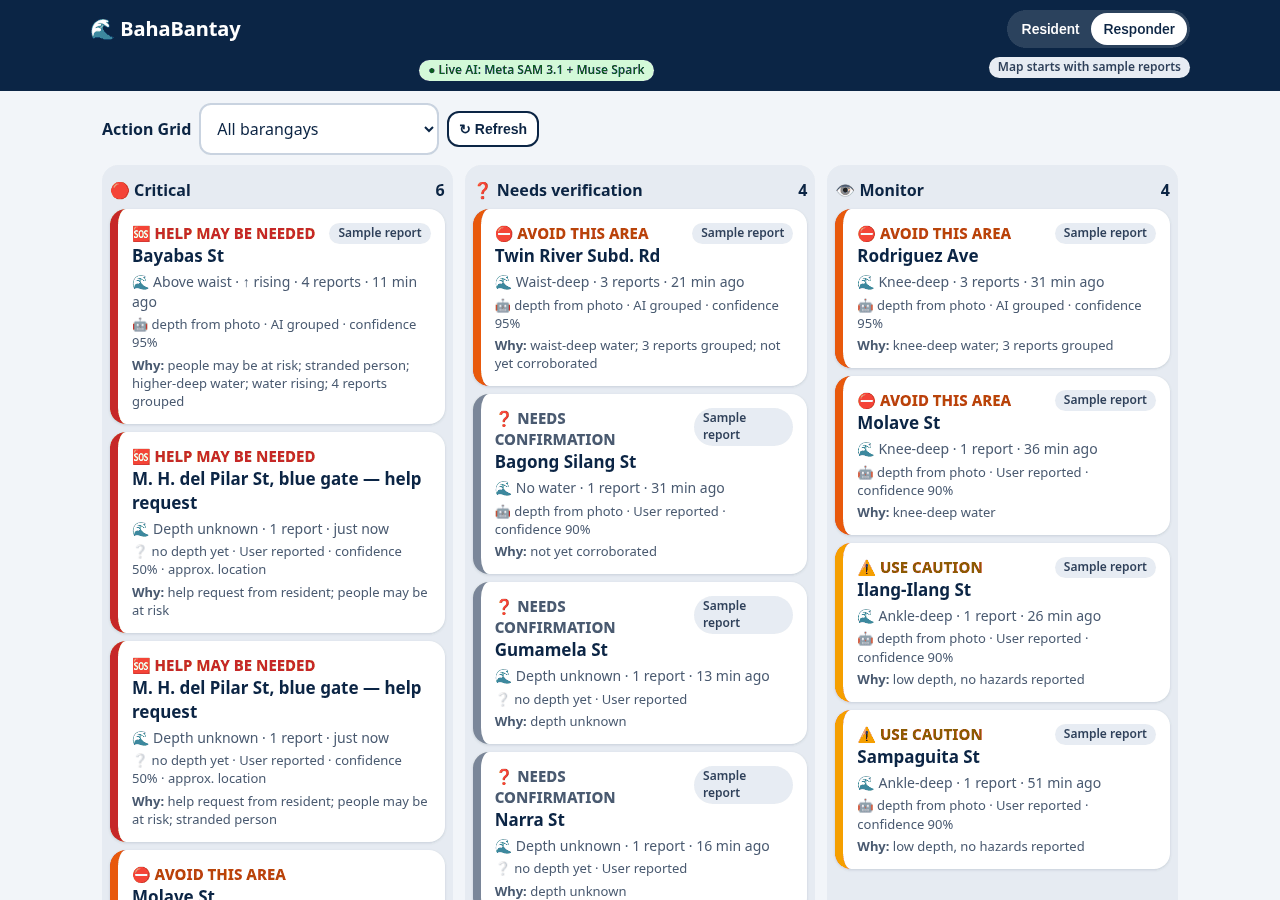
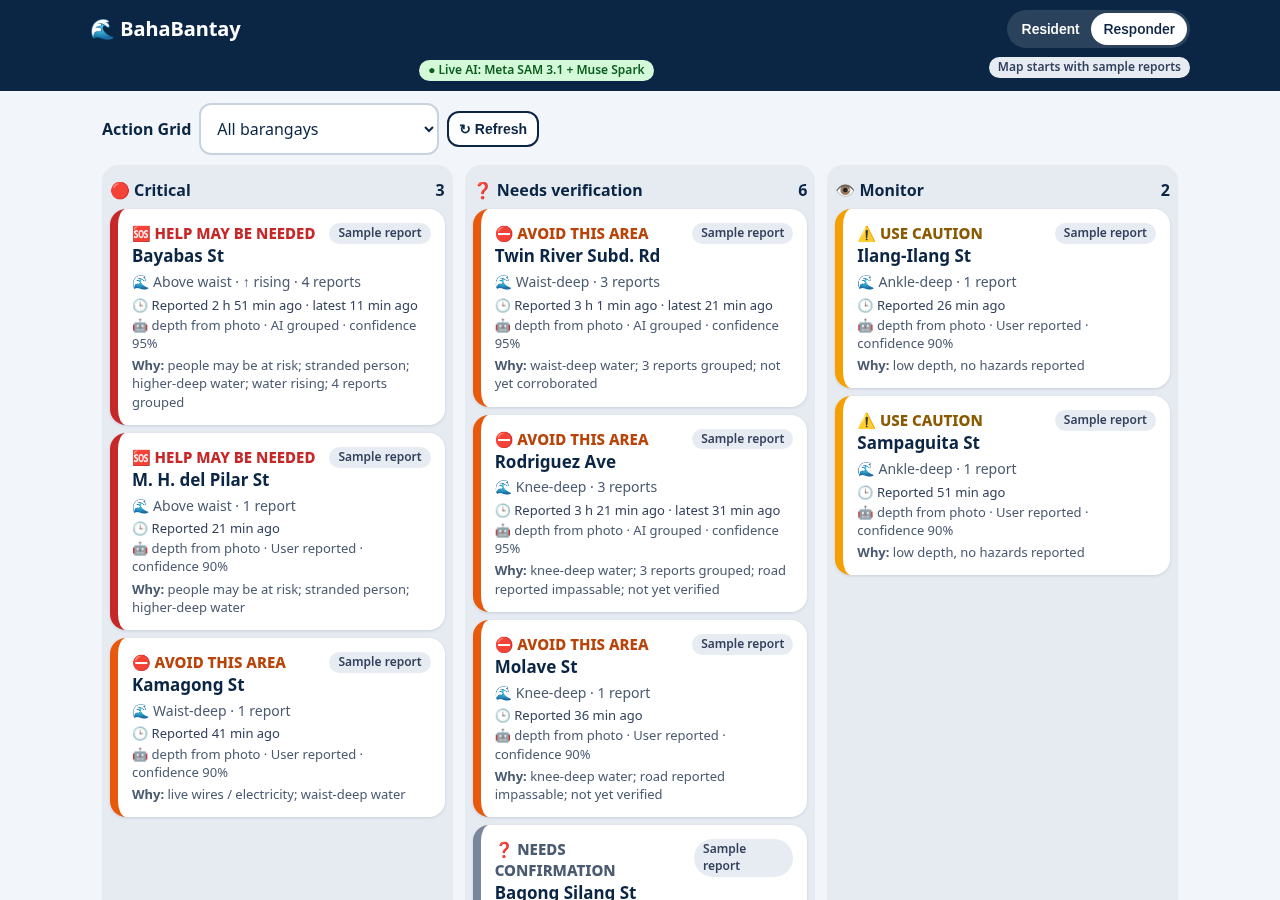
README and screenshots for current build: nationwide search, 250 m squares, new report fields, hotlines

diff --git a/README.md b/README.md
@@ -5,28 +5,61 @@ Built for the Meta Global AI Developer Hackathon (Oct 26 – Nov 4, 2026), using
 
 Live demo: https://bahabantay-466317436519.asia-southeast1.run.app (append `#responder` for the responder view)
 
-> The map starts with 18 **sample reports** (synthetic, Marikina area, placeholder images) so there is something to look at.
-> Sample reports are not run through the models. Every photo you submit in the app *is* analyzed live by SAM 3.1 and
-> Muse Spark; the header shows which provider is answering and says so if the offline fallback was used.
+> The demo starts with **sample reports** (synthetic, Marikina area, placeholder images), each labeled *Sample report*,
+> so there is something to look at. Sample reports are not run through the models. Every photo you submit in the app *is*
+> analyzed live by SAM 3.1 and Muse Spark; the header shows which provider is answering and says so if the offline fallback was used.
+
+| Resident home | Affected area as 250 m squares | Square details |
+|---|---|---|
+| ![Resident home, Malanday in Danger](docs/screenshots/01-resident-home.png) | ![Map squares with legend](docs/screenshots/02-map-squares.png) | ![Square popup](docs/screenshots/03-square-popup.png) |
+| **Nationwide search (Davao City)** | **Report: depth, trend, car passable** | **AI understood** |
+| ![Barangay in Davao City, outside coverage](docs/screenshots/04-outside-coverage-mindanao.png) | ![Report step](docs/screenshots/05-report-depth-trend-car.png) | ![AI understood card](docs/screenshots/06-ai-understood.png) |
+
+| Responder Action Grid | Evidence drawer |
+|---|---|
+| ![Action Grid](docs/screenshots/07-responder-action-grid.png) | ![Evidence drawer](docs/screenshots/08-evidence-drawer.png) |
+| **Advisory (EN / FIL / SMS)** | **Emergency hotlines** |
+| ![Advisory and SMS](docs/screenshots/09-advisory-sms.png) | ![Hotlines card](docs/screenshots/10-hotlines.png) |
+
+More: [`docs/screenshots/04a-near-me-mindanao.png`](docs/screenshots/04a-near-me-mindanao.png) ("Near me" suggestions from GPS).
 
 ## The loop
 **Report → AI understands → Resident confirms → Alert → Help**
 
-1. **Resident ("Pulse") view**, mobile-first: area status *Safe / Watch / Danger* with report count and freshness,
-   four big actions (*Report flood, Check my area, I need help, Help someone*), nearby incident cards, map below.
-2. **Report flood**: photo → street/landmark (GPS, map tap, or "barangay area" marked approximate) → tap water level
-   (Ankle/Knee/Waist/Higher) + *Is it rising?* + optional note (optional browser speech-to-text; that part is the browser, not Meta).
+1. **Resident ("Pulse") view**, mobile-first: pick any barangay in the Philippines (search, or **📡 Near me** from GPS);
+   area status *Safe / Watch / Danger / No data* with report count and freshness; four big actions (*Report flood, Check my area,
+   I need help, Help someone*); nearby incident cards with "reported N min ago"; tap-to-call hotlines; map below.
+2. **Report flood**: photo → street/landmark (GPS, map tap, or barangay center marked approximate) → water level
+   (Ankle/Knee/Waist/Higher), optional **depth in cm**, **trend** (rising / steady / going down / not sure), **can a car pass?**,
+   optional note (browser speech-to-text available; that part is the browser, not Meta).
 3. Progress screen while **SAM 3.1** segments the photo and **Muse Spark** reads the note.
-4. **"AI understood" card**: what the photo said vs. what the reporter tapped, hazards found, with sources. The reporter
+4. **"AI understood" card**: what the photo said vs. what the reporter entered, hazards found, with sources. The reporter
    can correct the level, then confirms. Nothing is published before that.
 5. **Action card**: what we detected / what to do now / how to help, labeled *AI estimate, verify locally; not an official order*,
-   plus a **Share alert** button (short Filipino-English text for Messenger/Facebook/SMS).
-6. Neighbors tap **Still flooded / Already clear / Not sure** on each incident.
+   plus **Share alert** (short Filipino-English text for Messenger/Facebook/SMS).
+6. Neighbors tap **Still flooded / Already clear / Not sure**; a **No longer flooded** majority (≥2 votes) marks a flood *Safe to pass*.
+   Help requests can't be cleared by votes.
 7. **I need help** sends a high-priority request straight into the responder queue (exact location shown to responders only).
-8. **Responder view — Action Grid**: incidents ranked *Critical / Needs verification / Monitor* with the reason for the
-   priority; evidence drawer (original reports and photos, AI detections, community votes, responder actions, timestamps,
-   confidence, recommendation); **Confirm / Reject / Request more info / Escalate**; advisory generator (English, Filipino,
-   ≤160-char SMS); Q&A (*"Saan pwedeng dumaan ang truck?"*).
+8. **Responder view, Action Grid**: incidents ranked *Critical / Needs verification / Monitor* with the reason;
+   evidence drawer (reports, photos, AI detections, votes, responder actions, timestamps, confidence, recommendation);
+   **Confirm / Reject / Request more info / Escalate**; advisory generator (English, Filipino, ≤160-char SMS); Q&A.
+   "Avoid this area" incidents never sit in Monitor.
+
+## Where is it flooded? Nationwide search + 250 m squares
+- **All 42,010 barangays** (PSA PSGC, Q1 2026) are searchable server-side (`/api/barangays/search`, `/api/barangays/nearest`).
+  Reports outside the demo's responder coverage (Marikina) are accepted and labeled **Outside responder coverage**.
+  A barangay with no reports shows **No data**, never "Safe".
+- A barangay is a label, not a flood footprint. Each report is snapped to a **~250 m square** (`/api/cells`). Solid = observed &
+  confirmed, dashed = single reporter, gray = old or weak. Blank = no data, not "no flood". Each square shows last observed time,
+  weighted depth and confidence. The public map shows only squares; exact points are responder-only.
+- **Decay and dedupe:** a report's weight halves every 60 min and expires after 6 h; several reports from the same device in the
+  same square count as one reporter. A recent "car can't pass" turns the area into *Avoid this area*.
+- Details: [`docs/affected-area.md`](docs/affected-area.md). Data and licenses: [`docs/data-sources.md`](docs/data-sources.md)
+  (PSGC via the MIT-licensed `psgc` package; centroids from HDX/OCHA COD-AB, CC BY-IGO; map tiles © OpenStreetMap).
+
+## Emergency hotlines
+Tap-to-call card for Marikina (Rescue 161) and Quezon City (Helpline 122, QCDRRMO, EOC), numbers checked on marikina.gov.ph and
+quezoncity.gov.ph on Nov 3, 2026. Elsewhere: 911.
 
 ## Where the Meta models are used
 | Step | Model | Code |
@@ -60,6 +93,8 @@ app/depth.py         segmentation → waterline vs reference-object height → d
 app/agent.py         agent tools: nearby reports, duplicate merge, people-at-risk, follow-up question; language detection
 app/aggregate.py     per-street rollup: latest depth, least-squares trend (cm/h), passability
 app/qa.py            grounded responder Q&A
+app/cells.py         250 m grid cells, time decay, expiry, same-device dedupe, confidence
+app/geo.py, app/geo/ PSGC barangay list (42,010) + centroids, search, nearest, coverage
 app/db.py            SQLite (reports, votes, reviews)
 app/providers/       base.py interfaces · meta.py (SAM 3.1 + Muse Spark, visible fallback) · mock.py (deterministic, offline)
 scripts/             seed.py, eval_depth.py, eval_reports.py, make_eval_set.py, smoke_meta_sam.py
@@ -67,17 +102,17 @@ scripts/             seed.py, eval_depth.py, eval_reports.py, make_eval_set.py, 
 API: `GET /api/health` · `POST /api/reports` (multipart; `draft=true` for the confirm step) · `POST /api/reports/{id}/publish` ·
 `POST /api/reports/{id}/answer` · `POST /api/help` · `GET /api/incidents?view=public|responder&barangay=` ·
 `POST /api/incidents/{id}/vote` · `POST /api/incidents/{id}/review` · `GET /api/area/{brgy}` · `GET /api/advisory/{brgy}` ·
-`GET /api/summary/{brgy}` · `GET /api/sitrep/{brgy}` · `POST /api/ask` · `GET /api/reports`, `/api/barangays`.
+`GET /api/cells` · `GET /api/barangays/search?q=` · `GET /api/barangays/nearest?lat=&lng=` · `GET /api/barangays/resolve?label=` · `GET /api/summary/{brgy}` · `GET /api/sitrep/{brgy}` · `POST /api/ask` · `GET /api/reports`, `/api/barangays`.
 
 ## Run it
 ```bash
 python3 -m venv .venv && .venv/bin/pip install -r requirements.txt
-.venv/bin/python -m scripts.seed                 # 18 sample reports
+.venv/bin/python -m scripts.seed                 # sample reports (labeled "Sample report")
 .venv/bin/uvicorn app.main:app --port 8765       # http://localhost:8765  (offline estimator by default)
-.venv/bin/pytest -q                              # 44 tests
+.venv/bin/pytest -q                              # 66 tests
 ```
 Live Meta models: put `META_API_KEY=...` and `BAHABANTAY_PROVIDER=meta` in a local `.env` (gitignored) or the environment.
-Other env vars: `BAHABANTAY_META_FALLBACK` (default true), `BAHABANTAY_DB`, `BAHABANTAY_UPLOADS`. Deploy notes: `docs/deploy.md`.
+Other env vars: `BAHABANTAY_META_FALLBACK` (default true), `BAHABANTAY_DB`, `BAHABANTAY_UPLOADS`. Also `BAHABANTAY_HALF_LIFE_MIN` (60), `BAHABANTAY_EXPIRE_H` (6), `BAHABANTAY_DEMO_CLOCK`. Deploy (Cloud Run): [`docs/deploy.md`](docs/deploy.md).
 
 ## Prototype evaluation (synthetic data only)
 | Eval | Data | Result |
@@ -90,6 +125,10 @@ Other env vars: `BAHABANTAY_META_FALLBACK` (default true), `BAHABANTAY_DB`, `BAH
 These are prototype checks on data we wrote and labeled ourselves. They are not field accuracy. Details: `docs/eval/`.
 
 ## Honest limits
+- The advisory generator takes about 26–40 s on the live Meta models (a spinner shows while it works).
+- Barangay centroids are approximate (84 have no polygon match and are flagged); they only label and center the map, never mark a flood.
+- 250 m squares show where reports are, not the true flood boundary; there is no interpolation, elevation or drainage model yet.
+- Responder coverage in the demo is Marikina only; hotlines are verified for Marikina and Quezon City only.
 - No real flood photos with measured depths yet; depth accuracy on real photos is unmeasured.
 - Sample reports are synthetic and use placeholder images.
 - SQLite on one Cloud Run instance; submitted reports reset when the container restarts. No login: the responder view is open in the demo.
